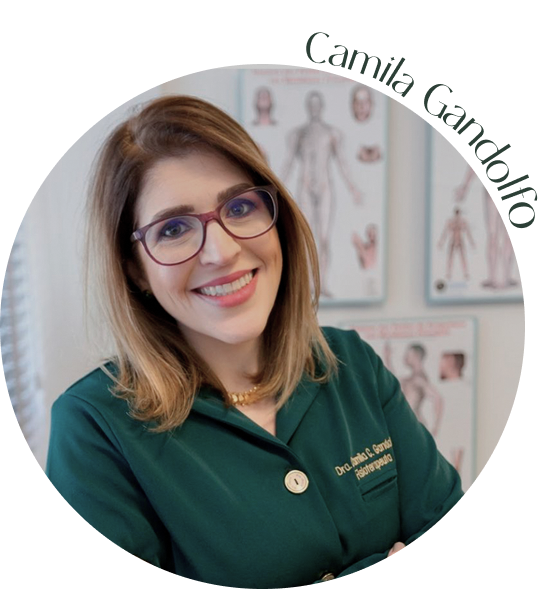
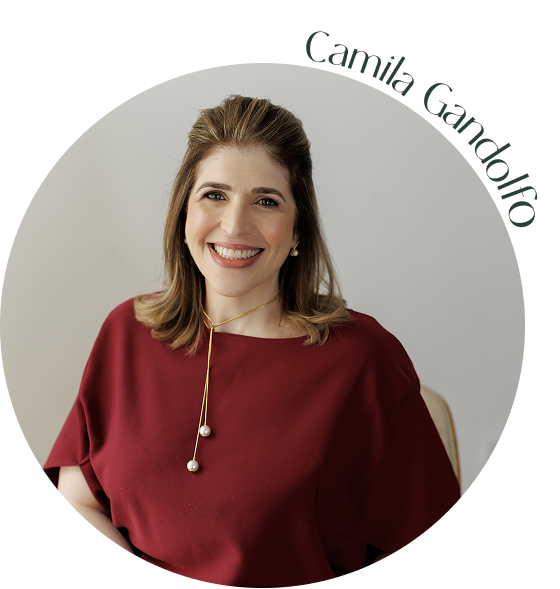
troca imagem home

diff --git a/src/css/home.css b/src/css/home.css
@@ -1,1 +1,1 @@
-strong{font-weight:bold}*{margin:0;padding:0;outline:0;box-sizing:border-box;scroll-behavior:smooth}*:focus{outline:0}html,body,#root{font-size:62.5%}body{overflow-x:hidden;-webkit-font-smoothing:antialiased;font-family:"Montserrat",sans-serif}main{display:flex;overflow-x:hidden;flex-direction:column;background-color:#f2eae4;position:relative}body,input,button,textarea{font-family:"Montserrat",sans-serif}h1,h2,h3,h4,h5,h6{font-family:"Montserrat",sans-serif}p{font-size:2.3rem;color:#2c3f36}h1{font-size:4.8rem}h2{font-size:2.4rem}h3{font-size:2.2rem}h4{font-size:2rem}h5{font-size:2.4rem}h6{font-size:1.8rem}a{text-decoration:none;font-size:1.9rem}ul{list-style:none}ul li{font-size:1.6rem}button{cursor:pointer}.whatsapp{position:fixed;z-index:10;bottom:3rem;right:5rem;width:7rem;height:7rem}@media screen and (max-width: 700px){.whatsapp{right:24px;width:6rem;height:6rem}}.only-mobile{display:none !important}.mobile-tablet{display:none !important}@media screen and (max-width: 700px){.only-mobile{display:initial !important}.mobile-tablet{display:initial !important}.tablet-desktop{display:none !important}.only-desktop{display:none !important}}@media screen and (min-width: 701px)and (max-width: 1260px){.mobile-tablet{display:initial !important}.only-desktop{display:none !important}}@keyframes appear{0%{transform:translatex(10%);opacity:0}100%{transform:translatex(0);opacity:1}}.brownButton{background-color:#3d0814;color:#f2f4ea;padding:2rem 2.6rem;font-size:1.8rem;font-weight:500;transition:filter .2s;border-radius:30px;text-transform:uppercase;display:flex;align-items:center;justify-content:center;z-index:10;width:fit-content}.brownButton:hover{filter:brightness(0.7)}@media screen and (max-width: 700px){.brownButton{font-size:1.3rem;line-height:1.3rem;padding:1.3rem 1.6rem}}.whiteButton{background-color:#f2f4ea;color:#2c3f36;padding:2rem 2.6rem;font-size:1.8rem;font-weight:500;transition:filter .2s;border-radius:30px;text-transform:uppercase;display:flex;place-items:center;justify-content:center;z-index:10;width:fit-content}.whiteButton:hover{filter:brightness(0.7)}@media screen and (max-width: 700px){.whiteButton{font-size:1.3rem;line-height:1.3rem;padding:1.3rem 1.6rem}}.nav{width:100%;display:flex;align-items:center;justify-content:space-between;padding:1.2rem 10rem;background-color:rgba(44,63,54,.5019607843);position:absolute;top:0;z-index:8}.nav input{display:none}.nav ul{display:flex;gap:5rem;justify-content:flex-end;align-items:center}.nav ul li{opacity:1}.nav ul li a{font-style:normal;font-weight:500;font-size:1.6rem;line-height:100%;color:#f2f4ea;text-transform:uppercase}.nav ul li .transparentButton{text-transform:none}@media screen and (max-width: 700px){.nav{padding:1.2rem 2.44rem}.nav>a{width:8.3rem;height:3.2rem}.nav>a img{width:100%;height:100%}.nav label .menu{position:relative;z-index:1000;cursor:pointer}.nav .hamburger .abrir{color:#f2f4ea;text-transform:uppercase;font-weight:500;letter-spacing:2%;font-size:1.4rem}.nav .hamburger .fechar{display:none}.nav label input:checked{height:100vh}.nav label input:checked+.menu .hamburger .abrir{display:none}.nav label input:checked+.menu .hamburger .fechar{color:#f2f4ea;text-transform:uppercase;font-weight:500;letter-spacing:2%;font-size:1.4rem;display:initial;animation:appear .5s ease-in}.nav label ul{opacity:0;display:none;animation:appear .5s ease-in}.nav label input:checked+.menu+ul{opacity:1;display:flex;flex-direction:column;align-items:flex-start;justify-content:flex-start;gap:4vh;position:absolute;background-color:#2c3f36;top:0;width:100vw;right:0;padding:2.3rem 2.4rem 3.7rem;height:75vh;box-shadow:0px 4px 4px rgba(0,0,0,.1);z-index:200}.nav label input:checked+.menu+ul .links{font-size:1.8rem;line-height:1.8rem;letter-spacing:0%;color:#f2f4ea;text-transform:none}.nav label input:checked+.menu+ul img{width:8.3rem;height:3.2rem;margin-bottom:13vh}}@media screen and (min-width: 701px)and (max-width: 1260px){.nav{padding-right:10%;padding-left:5%;padding-top:2rem;padding-bottom:2rem}.nav label .menu{position:absolute;z-index:1000;width:50px;height:50px;cursor:pointer}.nav label input{display:none}.nav label input:checked{height:100vh;width:100vw;margin-bottom:0;padding-left:0;top:-7.8rem}.nav label input:checked+.menu+ul{opacity:1;flex-direction:column;display:flex;position:absolute;top:-4rem;width:100vw;right:0;padding-top:6rem;padding-left:2.5rem;padding-bottom:4.6rem;box-shadow:0px 4px 4px rgba(0,0,0,.1);border-radius:0px 0px 0px 25px}.nav label ul{z-index:200;position:absolute;top:50%;left:50%;opacity:0;-webkit-transition:.5s ease-in-out;transition:.5s ease-in-out;display:none}.nav ul{gap:0}.nav ul li{position:relative;padding-bottom:2rem;padding-top:2rem}.nav ul li a{font-weight:700;font-size:1.8rem;line-height:100%}}footer{background-color:#2c3f36;padding-top:10rem;padding-bottom:1rem;display:flex;flex-direction:column}footer .wrap-footer{display:flex;width:85%;margin:auto;justify-content:space-between;align-items:center;padding-bottom:7rem}footer .wrap-footer .left-footer{flex:1}footer .wrap-footer .right-footer{flex:1;display:flex;flex-direction:column;align-items:flex-start;gap:2.3rem}footer .wrap-footer .right-footer p{font-size:2rem;line-height:3rem;letter-spacing:0%;color:#f2f4ea;width:52.6rem}footer .wrap-footer .right-footer .icons{display:flex;gap:1.5rem}footer .nami{margin:auto;color:#f2f4ea;text-align:center;font-size:1.6rem}@media screen and (max-width: 700px){footer{padding-top:6rem;padding-bottom:1.5rem}footer .wrap-footer{flex-direction:column-reverse;width:90%;padding-bottom:4.2rem;align-items:flex-start;gap:4rem}footer .wrap-footer .left-footer{flex:1;width:19rem}footer .wrap-footer .left-footer img{width:100%}footer .wrap-footer .right-footer{flex:1;display:flex;flex-direction:column;align-items:flex-start;gap:2.3rem}footer .wrap-footer .right-footer p{font-size:1.6rem;line-height:2.2rem;letter-spacing:0%;width:90%}footer .wrap-footer .right-footer .icons{display:flex;gap:1rem;width:3rem;height:3rem}footer .nami{margin:auto;color:#f2f4ea;text-align:center;font-size:1.2rem}}.header{position:relative;width:100%;height:90vh}.header img{position:absolute;top:0;left:0;width:100%;height:100%;object-fit:cover;z-index:2}.header .header-text{position:absolute;left:10rem;top:65%;transform:translateY(-50%);z-index:3;display:flex;flex-direction:column;gap:3rem;width:42rem}.header .header-text h2{font-size:2.6rem;color:#f2f4ea;font-weight:400;line-height:3.4rem;letter-spacing:2%}@media screen and (max-width: 700px){.header{aspect-ratio:36/48;height:82vh;width:100vw}.header .header-text{left:2.4rem;gap:1rem;width:25rem}.header .header-text h2{font-size:1.6rem;line-height:2.2rem;width:25rem}}.header2{position:relative;aspect-ratio:144/60;width:100%;height:auto}.header2 img{position:absolute;top:0;left:0;width:100%;height:100%;object-fit:cover;z-index:2}.header2 .header-text{position:absolute;left:10rem;top:50%;z-index:3;display:flex;flex-direction:column;gap:3rem;width:42rem}.header2 .header-text h2{font-size:3rem;color:#f2f4ea;font-weight:400;line-height:3rem;letter-spacing:2%}@media screen and (max-width: 700px){.header2{aspect-ratio:36/48;height:82vh;width:100%}.header2 .header-text{left:2.4rem;gap:1rem;width:25rem}.header2 .header-text h2{font-size:2.2rem;line-height:2.2rem;width:25rem}}.cuidado{position:relative}.cuidado .wrap-cuidado{display:flex;gap:8.5rem;align-items:center;padding:10rem 0 53rem}.cuidado .wrap-cuidado .right-img{position:absolute;top:0;right:0}.cuidado .wrap-cuidado .left-cuidado{display:flex;flex-direction:column}.cuidado .wrap-cuidado .left-cuidado h1{font-size:3.6rem;line-height:4.6rem;letter-spacing:0%;color:#2c3f36;margin-left:7vw}.cuidado .wrap-cuidado .left-cuidado .left-img{width:43rem;margin:2.5rem 0 3.3rem}.cuidado .wrap-cuidado .left-cuidado h2{font-size:2.8rem;line-height:4.6rem;letter-spacing:0%;color:#2c3f36;font-weight:600;margin-left:7vw}.cuidado .wrap-cuidado .left-cuidado p{font-size:2rem;line-height:3rem;letter-spacing:2%;color:#2c3f36;margin-left:7vw;width:63rem}.cuidado .wrap-cuidado .left-cuidado a{margin:4.7rem 7vw 0}@media screen and (max-width: 700px){.cuidado .wrap-cuidado{display:flex;flex-direction:column;gap:0rem;align-items:center;padding:6.7rem 0 30rem}.cuidado .wrap-cuidado .right-img{position:absolute;top:0;right:0;width:70%}.cuidado .wrap-cuidado .left-cuidado{display:flex;flex-direction:column}.cuidado .wrap-cuidado .left-cuidado h1{font-size:2rem;line-height:2rem;letter-spacing:0%;margin-left:5vw}.cuidado .wrap-cuidado .left-cuidado .left-img{width:50%;margin-bottom:2rem}.cuidado .wrap-cuidado .left-cuidado h2{font-size:1.6rem;line-height:1.6rem;margin-left:5vw;margin-top:1rem}.cuidado .wrap-cuidado .left-cuidado p{font-size:1.6rem;line-height:2.3rem;letter-spacing:0%;margin-left:5vw;width:90%;margin-top:3.5rem}.cuidado .wrap-cuidado .left-cuidado a{margin:4rem 5vw 0}.cuidado .wrap-cuidado .left-cuidado img{width:87%;margin:auto}}.tratamentos{background-color:#2c3f36;position:relative}.tratamentos h1{font-size:3.6rem;line-height:4.4rem;letter-spacing:5%;font-weight:400;font-family:"ivymode",sans-serif;color:#2c3f36;text-align:center;margin-top:-39rem}.tratamentos h1 strong{font-family:"Montserrat",sans-serif}.tratamentos .swiper{margin:6rem 10rem 0}.tratamentos .swiper-wrapper .swiper-slide{display:flex;flex-direction:column;width:40rem !important;height:49rem !important;position:relative;border-radius:30px}.tratamentos .swiper-wrapper .swiper-slide .back-image{position:absolute;top:0;left:0;width:100%;height:100%;z-index:2;border-radius:30px}.tratamentos .swiper-wrapper .swiper-slide .text{position:absolute;display:flex;z-index:5;bottom:6.1rem;transform:translateY(50%);align-items:center;width:100%;justify-content:center}.tratamentos .swiper-wrapper .swiper-slide .text p{font-size:2.2rem;line-height:2.2rem;letter-spacing:2%;font-weight:700;text-transform:uppercase;width:21.6rem;text-align:center}.tratamentos .swiper-wrapper .swiper-slide .open-link{position:absolute;width:5.8rem;height:5.8rem;right:2.5rem;bottom:3.1rem;z-index:4}.tratamentos .swiper-wrapper .swiper-slide::after{content:"";position:absolute;top:0;left:0;width:100%;height:100%;z-index:3;background:linear-gradient(180deg, rgba(242, 244, 234, 0) 30.14%, rgba(242, 244, 234, 0.5) 100%);border-radius:0 0 30px 30px}.tratamentos .swiper-button-prev{top:-4rem;left:4rem;width:2rem}.tratamentos .swiper-button-next{top:-4rem;right:4rem;width:2rem;left:unset}.tratamentos>p{font-size:2.2rem;line-height:3.2rem;letter-spacing:0%;text-align:center;color:#f2f4ea;margin:8.4rem auto 6rem}.tratamentos .botoes{display:flex;gap:2rem;margin:0 auto 9.5rem;align-items:center;justify-content:center}.tratamentos .botoes a{width:30rem}.tratamentos>img{position:absolute;bottom:5.6rem;left:0;z-index:5}@media screen and (max-width: 700px){.tratamentos h1{font-size:2rem;line-height:2rem;letter-spacing:0%;margin-top:-22rem;text-align:left;margin-left:5vw}.tratamentos .swiper{margin:3.8rem 2.4rem 0}.tratamentos .swiper-wrapper .swiper-slide{width:20.8rem !important;height:26rem !important;border-radius:16px}.tratamentos .swiper-wrapper .swiper-slide .back-image{border-radius:16px}.tratamentos .swiper-wrapper .swiper-slide .open-link{width:3rem;height:3rem;left:50%;transform:translateX(-50%);position:absolute;right:unset;bottom:1rem}.tratamentos .swiper-wrapper .swiper-slide .text{position:absolute;z-index:5;bottom:5.7rem}.tratamentos .swiper-wrapper .swiper-slide .text p{font-size:1.5rem;line-height:1.5rem;letter-spacing:0%;width:90%;text-align:center}.tratamentos .swiper-wrapper .swiper-slide::after{border-radius:16px}.tratamentos .swiper-button-prev{top:-3rem;left:6px;width:12px}.tratamentos .swiper-button-next{top:-3rem;right:6px;width:12px;left:unset}.tratamentos>p{font-size:1.6rem;line-height:2.2rem;margin:4rem auto 3rem;width:31.2rem}.tratamentos .botoes{display:flex;flex-direction:column;gap:1.2rem;margin:0 auto 9.5rem;align-items:center;justify-content:center}.tratamentos .botoes a{width:18rem}.tratamentos>img{position:absolute;bottom:4rem;left:0;z-index:5;width:28rem}}.espaco{display:flex;width:85%;margin:auto;gap:7.5rem;max-width:1440px;padding:12rem 0 13rem;align-items:center;justify-content:center}.espaco .left-espaco{aspect-ratio:640/480;width:64rem}.espaco .left-espaco iframe{border-radius:20px;width:100%;height:100%}.espaco .right-espaco{display:flex;flex-direction:column;gap:5.9rem;width:52.5rem}.espaco .right-espaco h1{font-size:4.6rem;line-height:4.6rem;letter-spacing:5%;font-weight:400;font-family:"ivymode",sans-serif;color:#6f130b}.espaco .right-espaco p{font-size:2rem;line-height:3rem;letter-spacing:0%}@media screen and (max-width: 700px){.espaco{flex-direction:column;align-items:flex-start;width:90%;gap:4rem;max-width:700px;padding:7rem 0 6rem}.espaco h1{font-size:2.8rem;line-height:2.8rem;letter-spacing:5%;font-weight:400;font-family:"ivymode",sans-serif;color:#6f130b}.espaco .left-espaco{aspect-ratio:312/240;width:100%}.espaco .left-espaco iframe{border-radius:16px;width:100%;height:100%}.espaco .right-espaco{gap:3rem;width:100%}.espaco .right-espaco p{font-size:1.6rem;line-height:2.2rem}}.pre-footer{aspect-ratio:144/50;width:100%;height:auto}.pre-footer iframe{width:100%;height:100%}@media screen and (max-width: 700px){.pre-footer{aspect-ratio:36/30;width:100%;height:auto}.pre-footer iframe{width:100%;height:100%}}
+strong{font-weight:bold}*{margin:0;padding:0;outline:0;box-sizing:border-box;scroll-behavior:smooth}*:focus{outline:0}html,body,#root{font-size:62.5%}body{overflow-x:hidden;-webkit-font-smoothing:antialiased;font-family:"Montserrat",sans-serif}main{display:flex;overflow-x:hidden;flex-direction:column;background-color:#f2eae4;position:relative}body,input,button,textarea{font-family:"Montserrat",sans-serif}h1,h2,h3,h4,h5,h6{font-family:"Montserrat",sans-serif}p{font-size:2.3rem;color:#2c3f36}h1{font-size:4.8rem}h2{font-size:2.4rem}h3{font-size:2.2rem}h4{font-size:2rem}h5{font-size:2.4rem}h6{font-size:1.8rem}a{text-decoration:none;font-size:1.9rem}ul{list-style:none}ul li{font-size:1.6rem}button{cursor:pointer}.whatsapp{position:fixed;z-index:10;bottom:3rem;right:5rem;width:7rem;height:7rem}@media screen and (max-width: 700px){.whatsapp{right:24px;width:6rem;height:6rem}}.only-mobile{display:none !important}.mobile-tablet{display:none !important}@media screen and (max-width: 700px){.only-mobile{display:initial !important}.mobile-tablet{display:initial !important}.tablet-desktop{display:none !important}.only-desktop{display:none !important}}@media screen and (min-width: 701px)and (max-width: 1260px){.mobile-tablet{display:initial !important}.only-desktop{display:none !important}}@keyframes appear{0%{transform:translatex(10%);opacity:0}100%{transform:translatex(0);opacity:1}}.brownButton{background-color:#3d0814;color:#f2f4ea;padding:2rem 2.6rem;font-size:1.8rem;font-weight:500;transition:filter .2s;border-radius:30px;text-transform:uppercase;display:flex;align-items:center;justify-content:center;z-index:10;width:fit-content}.brownButton:hover{filter:brightness(0.7)}@media screen and (max-width: 700px){.brownButton{font-size:1.3rem;line-height:1.3rem;padding:1.3rem 1.6rem}}.whiteButton{background-color:#f2f4ea;color:#2c3f36;padding:2rem 2.6rem;font-size:1.8rem;font-weight:500;transition:filter .2s;border-radius:30px;text-transform:uppercase;display:flex;place-items:center;justify-content:center;z-index:10;width:fit-content}.whiteButton:hover{filter:brightness(0.7)}@media screen and (max-width: 700px){.whiteButton{font-size:1.3rem;line-height:1.3rem;padding:1.3rem 1.6rem}}.nav{width:100%;display:flex;align-items:center;justify-content:space-between;padding:1.2rem 10rem;background-color:rgba(44,63,54,.5019607843);position:absolute;top:0;z-index:8}.nav input{display:none}.nav ul{display:flex;gap:5rem;justify-content:flex-end;align-items:center}.nav ul li{opacity:1}.nav ul li a{font-style:normal;font-weight:500;font-size:1.6rem;line-height:100%;color:#f2f4ea;text-transform:uppercase}.nav ul li .transparentButton{text-transform:none}@media screen and (max-width: 700px){.nav{padding:1.2rem 2.44rem}.nav>a{width:8.3rem;height:3.2rem}.nav>a img{width:100%;height:100%}.nav label .menu{position:relative;z-index:1000;cursor:pointer}.nav .hamburger .abrir{color:#f2f4ea;text-transform:uppercase;font-weight:500;letter-spacing:2%;font-size:1.4rem}.nav .hamburger .fechar{display:none}.nav label input:checked{height:100vh}.nav label input:checked+.menu .hamburger .abrir{display:none}.nav label input:checked+.menu .hamburger .fechar{color:#f2f4ea;text-transform:uppercase;font-weight:500;letter-spacing:2%;font-size:1.4rem;display:initial;animation:appear .5s ease-in}.nav label ul{opacity:0;display:none;animation:appear .5s ease-in}.nav label input:checked+.menu+ul{opacity:1;display:flex;flex-direction:column;align-items:flex-start;justify-content:flex-start;gap:4vh;position:absolute;background-color:#2c3f36;top:0;width:100vw;right:0;padding:2.3rem 2.4rem 3.7rem;height:75vh;box-shadow:0px 4px 4px rgba(0,0,0,.1);z-index:200}.nav label input:checked+.menu+ul .links{font-size:1.8rem;line-height:1.8rem;letter-spacing:0%;color:#f2f4ea;text-transform:none}.nav label input:checked+.menu+ul img{width:8.3rem;height:3.2rem;margin-bottom:13vh}}@media screen and (min-width: 701px)and (max-width: 1260px){.nav{padding-right:10%;padding-left:5%;padding-top:2rem;padding-bottom:2rem}.nav label .menu{position:absolute;z-index:1000;width:50px;height:50px;cursor:pointer}.nav label input{display:none}.nav label input:checked{height:100vh;width:100vw;margin-bottom:0;padding-left:0;top:-7.8rem}.nav label input:checked+.menu+ul{opacity:1;flex-direction:column;display:flex;position:absolute;top:-4rem;width:100vw;right:0;padding-top:6rem;padding-left:2.5rem;padding-bottom:4.6rem;box-shadow:0px 4px 4px rgba(0,0,0,.1);border-radius:0px 0px 0px 25px}.nav label ul{z-index:200;position:absolute;top:50%;left:50%;opacity:0;-webkit-transition:.5s ease-in-out;transition:.5s ease-in-out;display:none}.nav ul{gap:0}.nav ul li{position:relative;padding-bottom:2rem;padding-top:2rem}.nav ul li a{font-weight:700;font-size:1.8rem;line-height:100%}}footer{background-color:#2c3f36;padding-top:10rem;padding-bottom:1rem;display:flex;flex-direction:column}footer .wrap-footer{display:flex;width:85%;margin:auto;justify-content:space-between;align-items:center;padding-bottom:7rem}footer .wrap-footer .left-footer{flex:1}footer .wrap-footer .right-footer{flex:1;display:flex;flex-direction:column;align-items:flex-start;gap:2.3rem}footer .wrap-footer .right-footer p{font-size:2rem;line-height:3rem;letter-spacing:0%;color:#f2f4ea;width:52.6rem}footer .wrap-footer .right-footer .icons{display:flex;gap:1.5rem}footer .nami{margin:auto;color:#f2f4ea;text-align:center;font-size:1.6rem}@media screen and (max-width: 700px){footer{padding-top:6rem;padding-bottom:1.5rem}footer .wrap-footer{flex-direction:column-reverse;width:90%;padding-bottom:4.2rem;align-items:flex-start;gap:4rem}footer .wrap-footer .left-footer{flex:1;width:19rem}footer .wrap-footer .left-footer img{width:100%}footer .wrap-footer .right-footer{flex:1;display:flex;flex-direction:column;align-items:flex-start;gap:2.3rem}footer .wrap-footer .right-footer p{font-size:1.6rem;line-height:2.2rem;letter-spacing:0%;width:90%}footer .wrap-footer .right-footer .icons{display:flex;gap:1rem;width:3rem;height:3rem}footer .nami{margin:auto;color:#f2f4ea;text-align:center;font-size:1.2rem}}.header{position:relative;width:100%;height:90vh}.header img{position:absolute;top:0;left:0;width:100%;height:100%;object-fit:cover;z-index:2}.header .header-text{position:absolute;left:10rem;top:65%;transform:translateY(-50%);z-index:3;display:flex;flex-direction:column;gap:3rem;width:42rem}.header .header-text h2{font-size:2.6rem;color:#f2f4ea;font-weight:400;line-height:3.4rem;letter-spacing:2%}@media screen and (max-width: 700px){.header{aspect-ratio:36/48;height:82vh;width:100vw}.header .header-text{left:2.4rem;gap:1rem;width:25rem}.header .header-text h2{font-size:1.6rem;line-height:2.2rem;width:25rem}}.header2{position:relative;aspect-ratio:144/60;width:100%;height:auto}.header2 img{position:absolute;top:0;left:0;width:100%;height:100%;object-fit:cover;z-index:2}.header2 .header-text{position:absolute;left:10rem;top:50%;z-index:3;display:flex;flex-direction:column;gap:3rem;width:42rem}.header2 .header-text h2{font-size:3rem;color:#f2f4ea;font-weight:400;line-height:3rem;letter-spacing:2%}@media screen and (max-width: 700px){.header2{aspect-ratio:36/48;height:82vh;width:100%}.header2 .header-text{left:2.4rem;gap:1rem;width:25rem}.header2 .header-text h2{font-size:2.2rem;line-height:2.2rem;width:25rem}}.cuidado{position:relative}.cuidado .wrap-cuidado{display:flex;gap:8.5rem;align-items:center;padding:10rem 0 53rem}.cuidado .wrap-cuidado .right-img{position:absolute;top:0;right:0}.cuidado .wrap-cuidado .left-cuidado{display:flex;flex-direction:column}.cuidado .wrap-cuidado .left-cuidado h1{font-size:3.6rem;line-height:4.6rem;letter-spacing:0%;color:#2c3f36;margin-left:7vw}.cuidado .wrap-cuidado .left-cuidado .left-img{width:43rem;margin:2.5rem 0 3.3rem}.cuidado .wrap-cuidado .left-cuidado h2{font-size:2.8rem;line-height:4.6rem;letter-spacing:0%;color:#2c3f36;font-weight:600;margin-left:7vw}.cuidado .wrap-cuidado .left-cuidado p{font-size:2rem;line-height:3rem;letter-spacing:2%;color:#2c3f36;margin-left:7vw;width:63rem}.cuidado .wrap-cuidado .left-cuidado a{margin:4.7rem 7vw 0}@media screen and (max-width: 700px){.cuidado .wrap-cuidado{display:flex;flex-direction:column;gap:0rem;align-items:center;padding:6.7rem 0 30rem}.cuidado .wrap-cuidado .right-img{position:absolute;top:0;right:0;width:70%}.cuidado .wrap-cuidado .left-cuidado{display:flex;flex-direction:column;z-index:3}.cuidado .wrap-cuidado .left-cuidado h1{font-size:2rem;line-height:2rem;letter-spacing:0%;margin-left:5vw}.cuidado .wrap-cuidado .left-cuidado .left-img{width:50%;margin-bottom:2rem}.cuidado .wrap-cuidado .left-cuidado h2{font-size:1.6rem;line-height:1.6rem;margin-left:5vw;margin-top:1rem}.cuidado .wrap-cuidado .left-cuidado p{font-size:1.6rem;line-height:2.3rem;letter-spacing:0%;margin-left:5vw;width:90%;margin-top:3.5rem}.cuidado .wrap-cuidado .left-cuidado a{margin:4rem 5vw 0}.cuidado .wrap-cuidado .left-cuidado img{width:87%;margin:auto}}.tratamentos{background-color:#2c3f36;position:relative}.tratamentos h1{font-size:3.6rem;line-height:4.4rem;letter-spacing:5%;font-weight:400;font-family:"ivymode",sans-serif;color:#2c3f36;text-align:center;margin-top:-39rem}.tratamentos h1 strong{font-family:"Montserrat",sans-serif}.tratamentos .swiper{margin:6rem 10rem 0}.tratamentos .swiper-wrapper .swiper-slide{display:flex;flex-direction:column;width:40rem !important;height:49rem !important;position:relative;border-radius:30px}.tratamentos .swiper-wrapper .swiper-slide .back-image{position:absolute;top:0;left:0;width:100%;height:100%;z-index:2;border-radius:30px}.tratamentos .swiper-wrapper .swiper-slide .text{position:absolute;display:flex;z-index:5;bottom:6.1rem;transform:translateY(50%);align-items:center;width:100%;justify-content:center}.tratamentos .swiper-wrapper .swiper-slide .text p{font-size:2.2rem;line-height:2.2rem;letter-spacing:2%;font-weight:700;text-transform:uppercase;width:21.6rem;text-align:center}.tratamentos .swiper-wrapper .swiper-slide .open-link{position:absolute;width:5.8rem;height:5.8rem;right:2.5rem;bottom:3.1rem;z-index:4}.tratamentos .swiper-wrapper .swiper-slide::after{content:"";position:absolute;top:0;left:0;width:100%;height:100%;z-index:3;background:linear-gradient(180deg, rgba(242, 244, 234, 0) 30.14%, rgba(242, 244, 234, 0.5) 100%);border-radius:0 0 30px 30px}.tratamentos .swiper-button-prev{top:-4rem;left:4rem;width:2rem}.tratamentos .swiper-button-next{top:-4rem;right:4rem;width:2rem;left:unset}.tratamentos>p{font-size:2.2rem;line-height:3.2rem;letter-spacing:0%;text-align:center;color:#f2f4ea;margin:8.4rem auto 6rem}.tratamentos .botoes{display:flex;gap:2rem;margin:0 auto 9.5rem;align-items:center;justify-content:center}.tratamentos .botoes a{width:30rem}.tratamentos>img{position:absolute;bottom:5.6rem;left:0;z-index:5}@media screen and (max-width: 700px){.tratamentos h1{font-size:2rem;line-height:2rem;letter-spacing:0%;margin-top:-22rem;text-align:left;margin-left:5vw}.tratamentos .swiper{margin:3.8rem 2.4rem 0}.tratamentos .swiper-wrapper .swiper-slide{width:20.8rem !important;height:26rem !important;border-radius:16px}.tratamentos .swiper-wrapper .swiper-slide .back-image{border-radius:16px}.tratamentos .swiper-wrapper .swiper-slide .open-link{width:3rem;height:3rem;left:50%;transform:translateX(-50%);position:absolute;right:unset;bottom:1rem}.tratamentos .swiper-wrapper .swiper-slide .text{position:absolute;z-index:5;bottom:5.7rem}.tratamentos .swiper-wrapper .swiper-slide .text p{font-size:1.5rem;line-height:1.5rem;letter-spacing:0%;width:90%;text-align:center}.tratamentos .swiper-wrapper .swiper-slide::after{border-radius:16px}.tratamentos .swiper-button-prev{top:-3rem;left:6px;width:12px}.tratamentos .swiper-button-next{top:-3rem;right:6px;width:12px;left:unset}.tratamentos>p{font-size:1.6rem;line-height:2.2rem;margin:4rem auto 3rem;width:31.2rem}.tratamentos .botoes{display:flex;flex-direction:column;gap:1.2rem;margin:0 auto 9.5rem;align-items:center;justify-content:center}.tratamentos .botoes a{width:18rem}.tratamentos>img{position:absolute;bottom:4rem;left:0;z-index:5;width:28rem}}.espaco{display:flex;width:85%;margin:auto;gap:7.5rem;max-width:1440px;padding:12rem 0 13rem;align-items:center;justify-content:center}.espaco .left-espaco{aspect-ratio:640/480;width:64rem}.espaco .left-espaco iframe{border-radius:20px;width:100%;height:100%}.espaco .right-espaco{display:flex;flex-direction:column;gap:5.9rem;width:52.5rem}.espaco .right-espaco h1{font-size:4.6rem;line-height:4.6rem;letter-spacing:5%;font-weight:400;font-family:"ivymode",sans-serif;color:#6f130b}.espaco .right-espaco p{font-size:2rem;line-height:3rem;letter-spacing:0%}@media screen and (max-width: 700px){.espaco{flex-direction:column;align-items:flex-start;width:90%;gap:4rem;max-width:700px;padding:7rem 0 6rem}.espaco h1{font-size:2.8rem;line-height:2.8rem;letter-spacing:5%;font-weight:400;font-family:"ivymode",sans-serif;color:#6f130b}.espaco .left-espaco{aspect-ratio:312/240;width:100%}.espaco .left-espaco iframe{border-radius:16px;width:100%;height:100%}.espaco .right-espaco{gap:3rem;width:100%}.espaco .right-espaco p{font-size:1.6rem;line-height:2.2rem}}.pre-footer{aspect-ratio:144/50;width:100%;height:auto}.pre-footer iframe{width:100%;height:100%}@media screen and (max-width: 700px){.pre-footer{aspect-ratio:36/30;width:100%;height:auto}.pre-footer iframe{width:100%;height:100%}}

diff --git a/src/sass/home.scss b/src/sass/home.scss
@@ -63,6 +63,7 @@
             .left-cuidado{
                 display: flex;
                 flex-direction: column;
+                z-index: 3;
                 h1{
                     font-size: 2rem;
                     line-height: 2rem;
